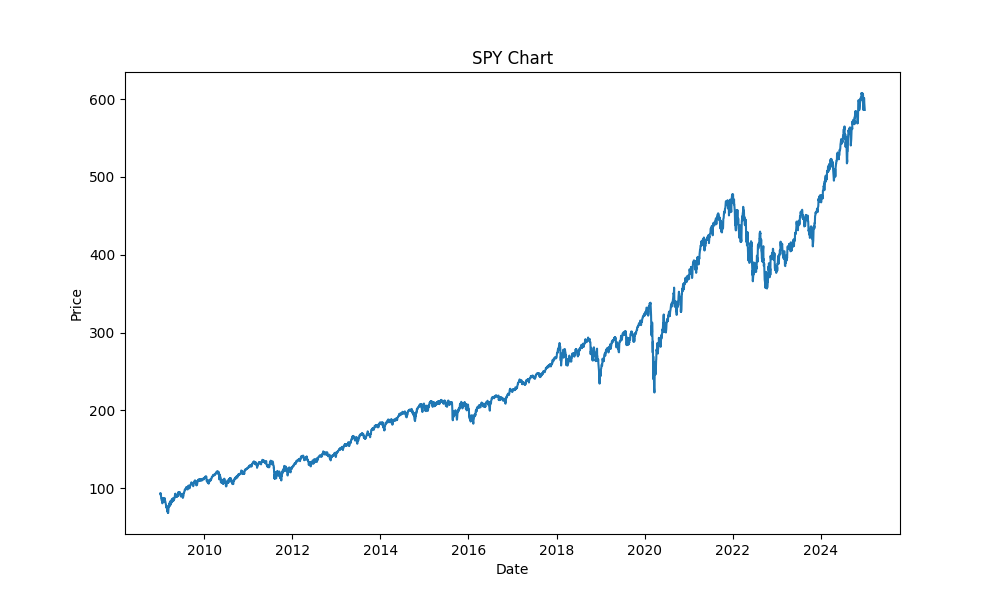
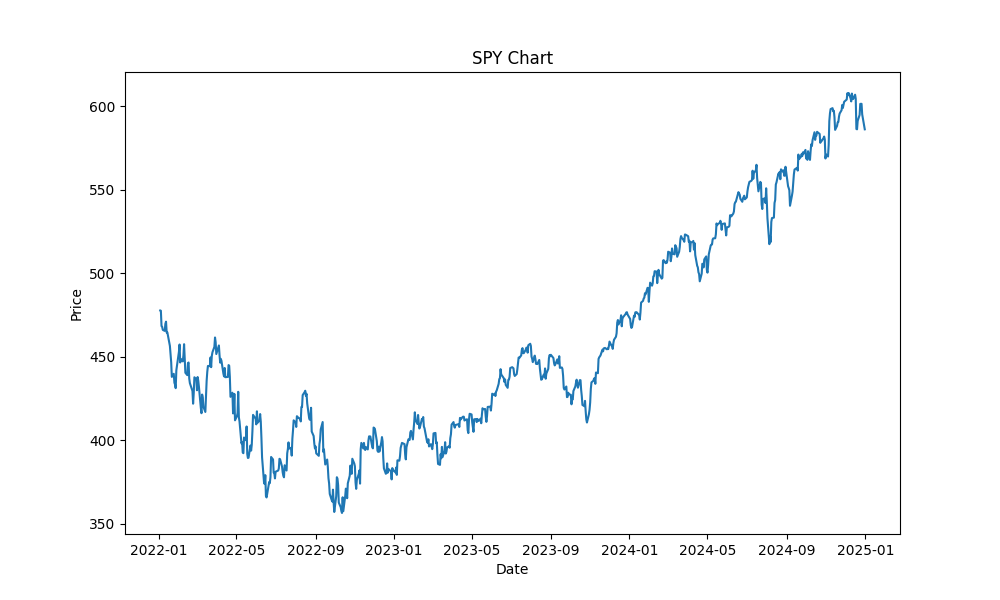
ready version 1.0

diff --git a/src/momentum_backtester/analysis.py b/src/momentum_backtester/analysis.py
@@ -82,6 +82,24 @@ class Analysis:
 
         # Drawdown chart
         ax2.plot(drawdown, color="red", label="Drawdown (Net)")
+
+        # Add dashed line at the date of maximum drawdown
+        mdd_idx = drawdown.idxmin()
+        mdd_val = drawdown.min()
+        if pd.notnull(mdd_idx):
+            ax2.axvline(mdd_idx, color="black", linestyle="--", alpha=0.7, label="MDD Date")
+            ax2.scatter(mdd_idx, mdd_val, color="black", zorder=5)
+            # Optionally annotate
+            ax2.annotate(
+                f"MDD: {mdd_val:.2%}",
+                xy=(mdd_idx, mdd_val),
+                xytext=(10, -10),
+                textcoords="offset points",
+                arrowprops=dict(arrowstyle="->", color="black"),
+                fontsize=10,
+                color="black"
+            )
+
         ax2.set_ylabel("Drawdown")
         ax2.set_xlabel("Date")
         ax2.set_title("Drawdown")

diff --git a/scripts/run_backtester.py b/scripts/run_backtester.py
@@ -9,7 +9,7 @@ from momentum_backtester.costs import turnover_costs
 from momentum_backtester.analysis import Analysis
 
 def main() -> None:
-    data = load_sp500_data_wrds(start_year=2009, end_year=2024)
+    data = load_sp500_data_wrds(start_year=2022, end_year=2024)
     sp500_universes = data["sp500_universes"]
     retoto_df_wide = data["retoto_df_wide"]
     retctc_df_wide = data["retctc_df_wide"]

diff --git a/README.md b/README.md
@@ -22,6 +22,16 @@ python scripts/run_backtest.py
 - 2: get signal -> save signal file
     in the signal file, the date represents at the starting of date, the signal file is already accessible.
 
+# Reflections:
+- I implemented the strategy in the classic setting as specified in the sheet. I did not have the time to fine tune any parameters, but the function class is written in such a way that it should be grid-searchable.
+- several ways can be tried to make the strat work better: adjust the momentum by beta/vol, coupled with fundamentals/volumes to intentionally avoid meme names, get help with MA line/vol evolution, double-sort with size might help as well.
+- I used WRDS freely available data to build the backtester. identifier: gvkey, permno.
+- The strategy does not work well at its current setting, reasons could be multi-faceted: 
+- infra high level: dockerize, deploy on AWS/Azure, crontab or airflow to run it daily. Useful intermediate results should be saved in a db or simply local fs.
+- on coding level: have mypy, linter, CI flow, pytest to ensure compilability and coding standard. Separate test env and prod env. 
+- if possible: do not fetch data directly from the source popping into the backtester, instead we should first save the data locally and let the backetester fetch from locally. In this way, we maintain raw_input_db, backtester, output_db. In parallel, we can per-calculate useful factors and pop into db so that backtester focuses only on backtesting and report gen.  
+
+
 # TODO:
 - make it more general
 - incorporate fundamentals data 
@@ -29,3 +39,4 @@ python scripts/run_backtest.py
 - overlay with macro: i.e. risk-free rate
 - plot should follow a certain style
 - ruff, mypy, makefile
+
